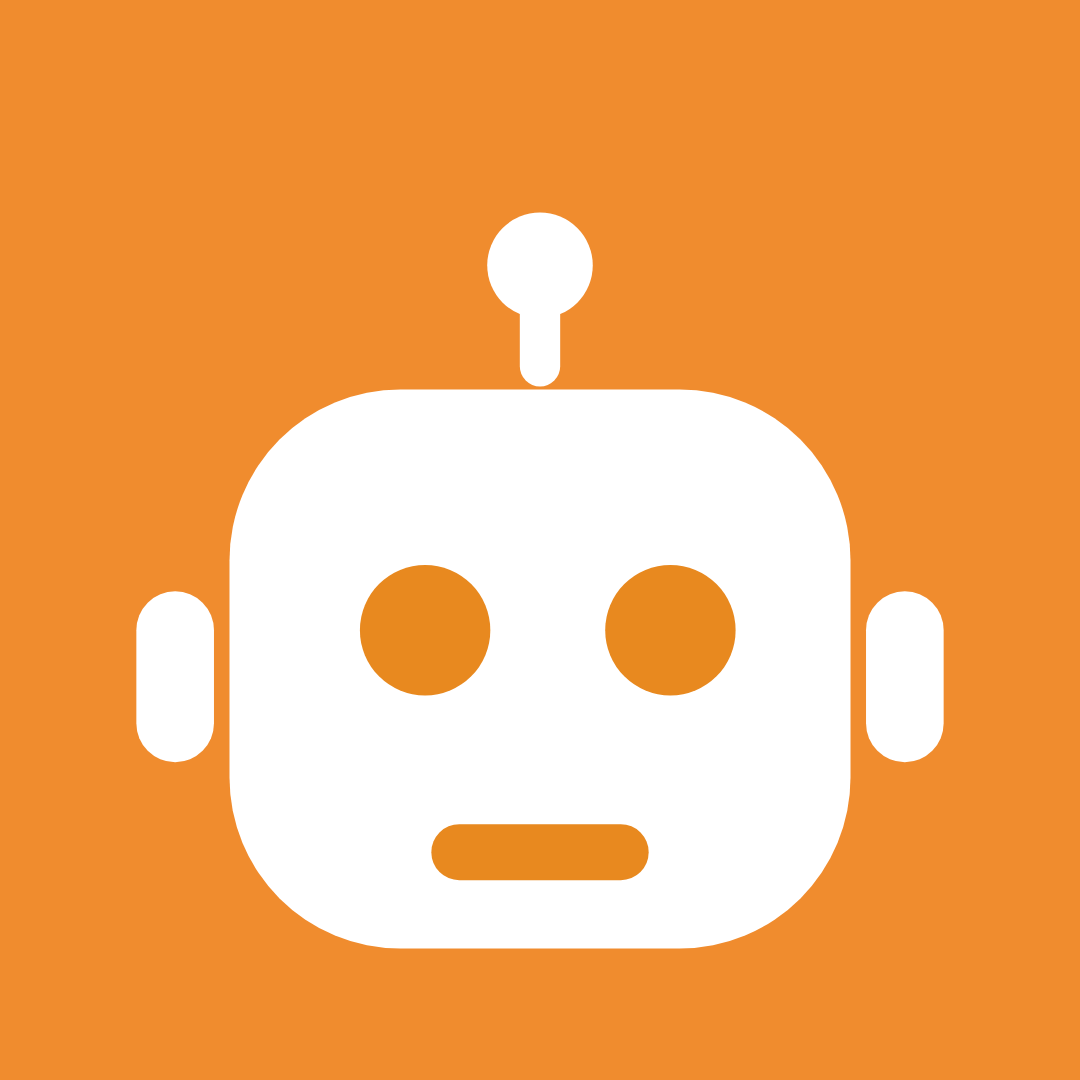
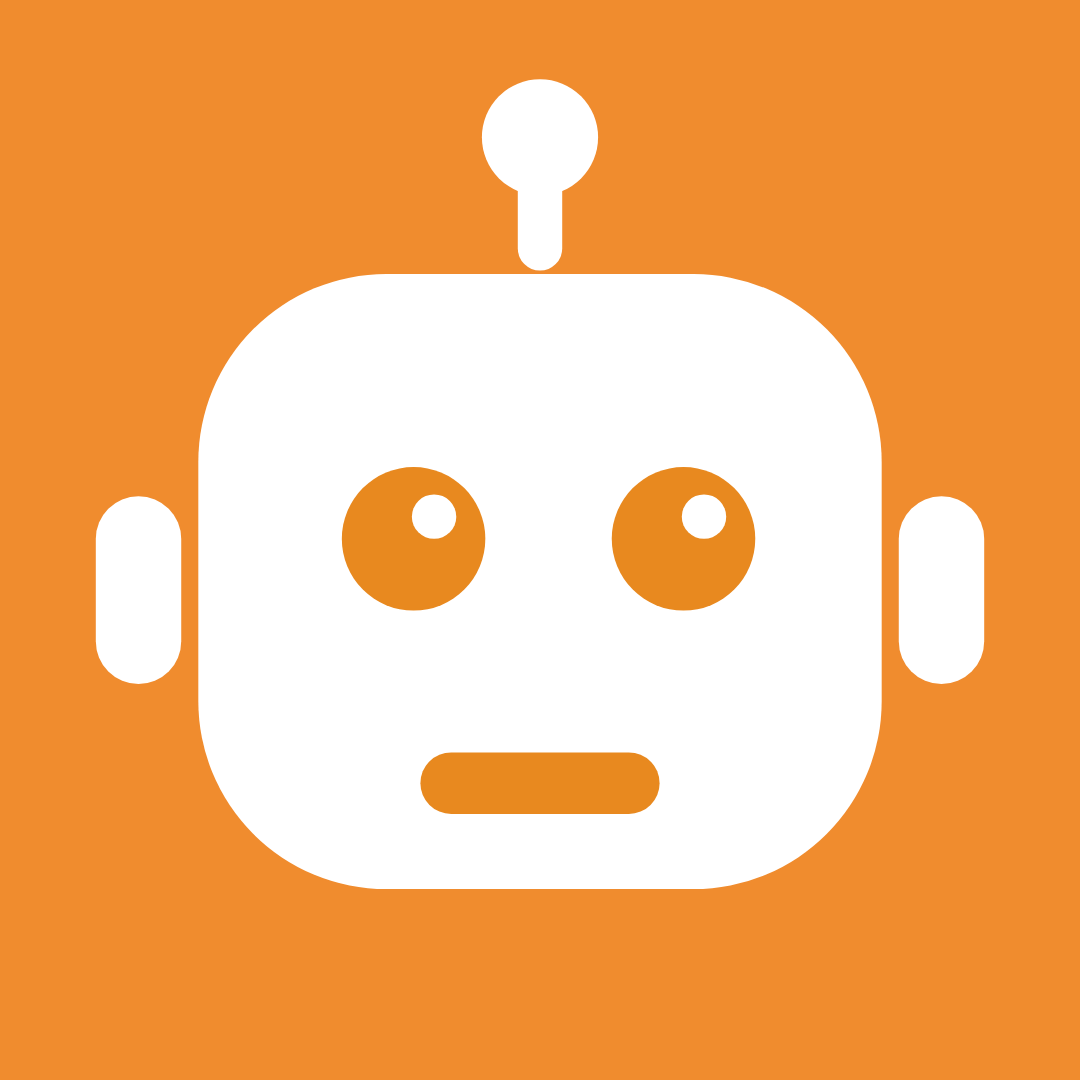
프로필 이미지를 원본으로 교체하고 SVG 를 그에 맞춰 다시 그림
Jey 가 원본 PNG 를 찾아 주었다. 내가 릴스 템플릿 마스코트로 되살린
것과 달랐다. 눈에 흰 반짝임이 있고 머리가 더 크며 입이 아래에 있다.

원본 PNG 를 기준으로 삼고, 치수를 재어 SVG 를 다시 그렸다.
픽셀 차이 0.45% 로 외곽선 안티앨리어싱 수준이다.
치수는 README 에 표로 적어 두었다.

프로필과 릴스 템플릿의 마스코트가 서로 다르다는 것을 경고로 적었다.
맞출지는 정하지 않았다.

Claude-Session: https://claude.ai/code/session_0112VCa4y5uQfQ7Aw7ejqX96

Changed region(s): [[0.0611, 0.0611, 0.9167, 0.8861], [0.55, 0.4278, 0.7028, 0.6417], [0.3056, 0.4278, 0.4583, 0.6417]]

diff --git a/brand/README.md b/brand/README.md
@@ -2,8 +2,10 @@
 
 | 파일 | 용도 | 규격 |
 |---|---|---|
-| `profile.svg` | 원본. 크기를 바꾸려면 이걸 쓴다 | 벡터 (viewBox 64×64) |
-| `profile-1080.png` | 인스타 프로필 사진 | 1080×1080 |
+| `profile-1080.png` | **원본.** 실제 인스타에 올라가 있는 파일 | 1080×1080 |
+| `profile.svg` | 원본을 재어 그린 벡터판. 크기를 키울 때 쓴다 | 벡터 (viewBox 1080×1080) |
+
+PNG 이 기준이고 SVG 는 그것을 따라 그린 것이다. 픽셀 차이 0.45%(외곽선 안티앨리어싱).
 
 ## 색
 
@@ -15,10 +17,28 @@
 | 네이비 | `#22304a` | 릴스 어두운 배경 |
 | 크림 | `#fdf6e8` | 릴스 밝은 배경 |
 
-## 마스코트
+## 마스코트 — 두 버전이 있다 ⚠
 
-릴스 템플릿(`tools/reels/*.html`)과 **같은 도형**이다. 한쪽만 고치지 않는다.
-흰 머리 + 주황 눈·입 + 안테나 + 양옆 귀.
+| | 눈 | 비율 |
+|---|---|---|
+| **프로필** (`brand/`) | 주황 눈 + **흰 반짝임** | 머리가 크고 입이 아래 |
+| **릴스 템플릿** (`tools/reels/*.html`) | 주황 눈만 | 머리가 작음 |
+
+**지금 어긋나 있다.** 맞출지는 정하지 않았다.
+릴스 쪽을 프로필에 맞추려면 `tools/reels/*.html` 다섯 파일의
+`viewBox="0 0 64 64"` 마스코트를 모두 고쳐야 한다.
+
+### 프로필 치수 (1080 기준)
+
+| 부분 | 값 |
+|---|---|
+| 머리 | x199 y274 w682 h615 r186 |
+| 귀 | w85 h187 r42.5 · 왼 x96 / 오른 x899 · y497 |
+| 안테나 공 | 중심 (539.5, 138) r58 |
+| 안테나 기둥 | x518 y130 w44 h139 r22 |
+| 눈 | r71.5 · 중심 y538 · 왼 x413 / 오른 x683 |
+| 눈 반짝임 | r22 · 눈 중심에서 오른쪽 위로 (+20.5, -22) |
+| 입 | x421 y753 w238 h61 r30.5 |
 
 ## 다시 뽑는 법
 
